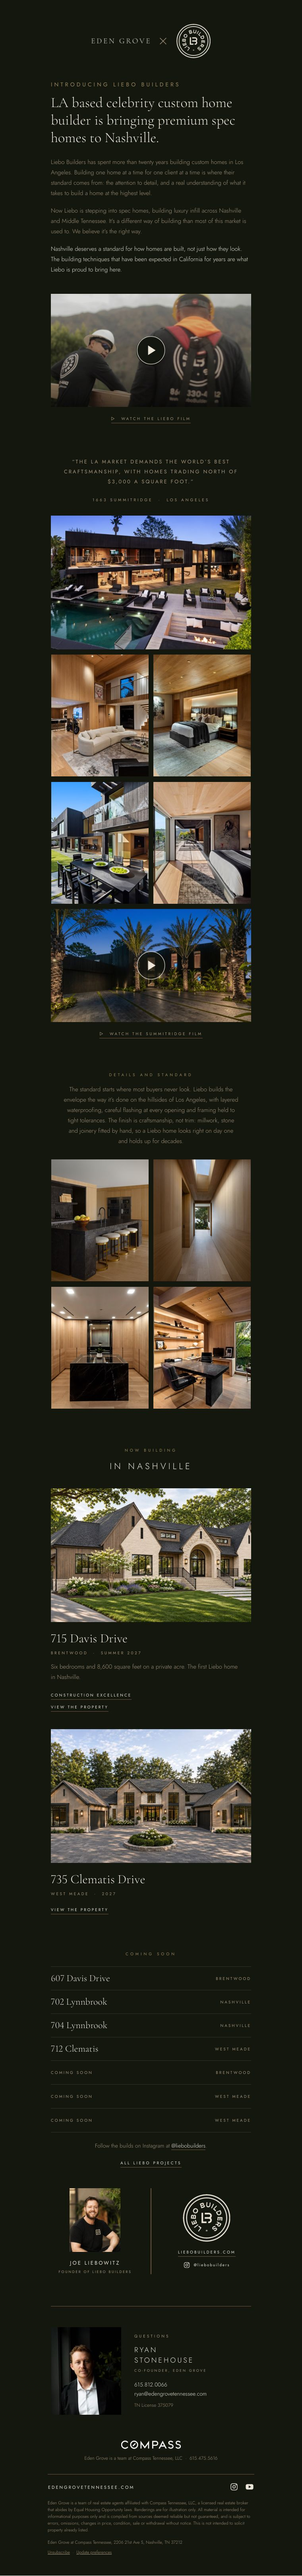
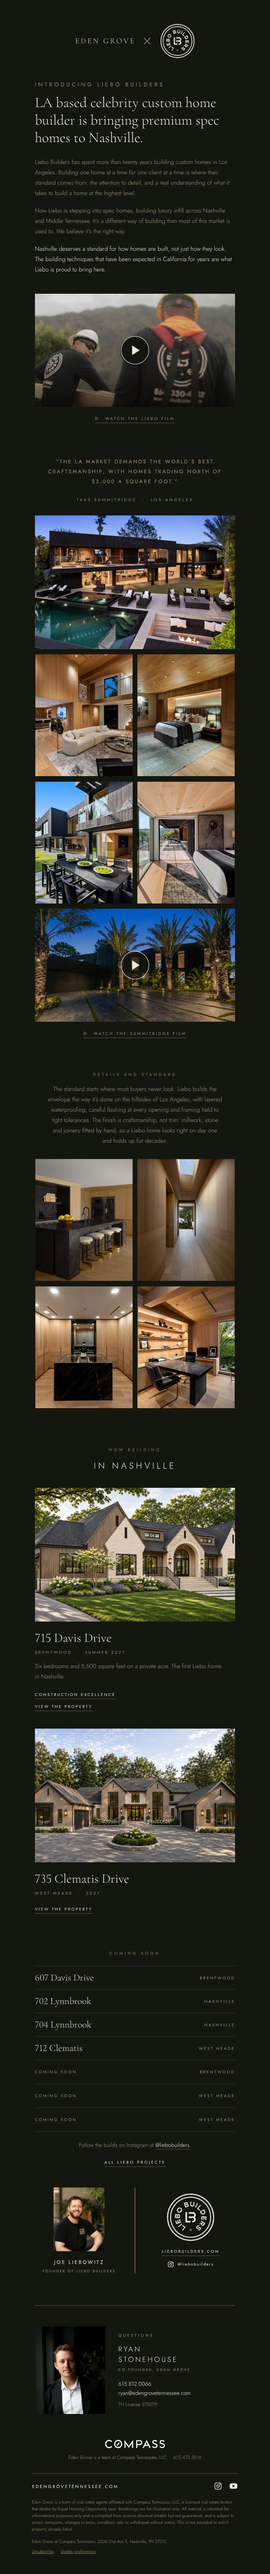
Kaeser page: three real emails, rendered from the real emails
Email 01 -> 715 Davis Drive, the first email of that campaign. Email 02 ->
the Liebo Builders spotlight. The event -> A Private Unveiling, the
invitation for 1211 Carl Seyfert. All three scroll inside their frames.

RENDERED FROM THE HTML, NOT FROM A PDF OF IT. The Liebo spotlight went in
earlier as a render of the PDF export; the real email arrived after and
replaces it. Same content, but what is on the page is now the thing that
lands in an inbox, at 680 wide, which is what an email is.

THE STANDALONE INVITATION CARD CAME BACK OUT. It went in before the email
did, and the email carries that exact card as its hero, so the page was
about to show the same picture twice in the same cell. media/cs-invite.jpg
is deleted rather than left orphaned.

Seven frames filled, sixteen still saying what they are waiting for.

Claude-Session: https://claude.ai/code/session_01C3Ufr82VGxH5HEiP9oDDSL

diff --git a/partners/kaeser-building/index.html b/partners/kaeser-building/index.html
@@ -632,7 +632,11 @@ html.js .rule.rv.in{transform:scaleX(1);transition:transform .9s var(--rise)}
         <p class="cell__kind">Email 01</p>
         <h3>The project, introduced</h3>
         <p>High level and short. Agents, high-net-worth individuals, athletes, entertainers, and our own network. The market does not need detail yet. It needs to know this is coming.</p>
-        <div class="slot slot--mail"><span><em>Email 01</em>sample to be dropped in</span></div>
+        <div class="slot slot--mail slot--live slot--scroll" tabindex="0" role="group"
+             aria-label="The 715 Davis Drive introduction email, scrollable">
+          <img src="../../media/mail-davis-intro.jpg" alt="Introducing 715 Davis Drive: the first email of the campaign" loading="lazy" decoding="async">
+        </div>
+        <p class="slot__cap"><b>An example of ours &middot; scroll it</b>715 Davis Dr &middot; the first email of the campaign</p>
       </div>
       <div class="cell" data-col="The Kaeser Brand">
         <p class="cell__kind">Post</p>
@@ -924,10 +928,11 @@ html.js .rule.rv.in{transform:scaleX(1);transition:transform .9s var(--rise)}
         <p class="cell__kind">Email</p>
         <h3>The invitation, then the night</h3>
         <p>An invitation beforehand, and afterwards the film of it. People who were not there should want to have been.</p>
-        <div class="slot slot--mail slot--live slot--still">
-          <img src="../../media/cs-invite.jpg" alt="An invitation to discover 1211 Carl Seyfert Memorial Drive" loading="lazy" decoding="async">
+        <div class="slot slot--mail slot--live slot--scroll" tabindex="0" role="group"
+             aria-label="The private unveiling invitation email, scrollable">
+          <img src="../../media/mail-unveiling.jpg" alt="A Private Unveiling: the invitation email for 1211 Carl Seyfert Memorial Drive" loading="lazy" decoding="async">
         </div>
-        <p class="slot__cap"><b>An example of ours</b>1211 Carl Seyfert Memorial Dr &middot; the invitation</p>
+        <p class="slot__cap"><b>An example of ours &middot; scroll it</b>1211 Carl Seyfert Memorial Dr &middot; the invitation email</p>
       </div>
       <div class="cell" data-col="The Kaeser Brand">
         <p class="cell__kind">Content</p>
